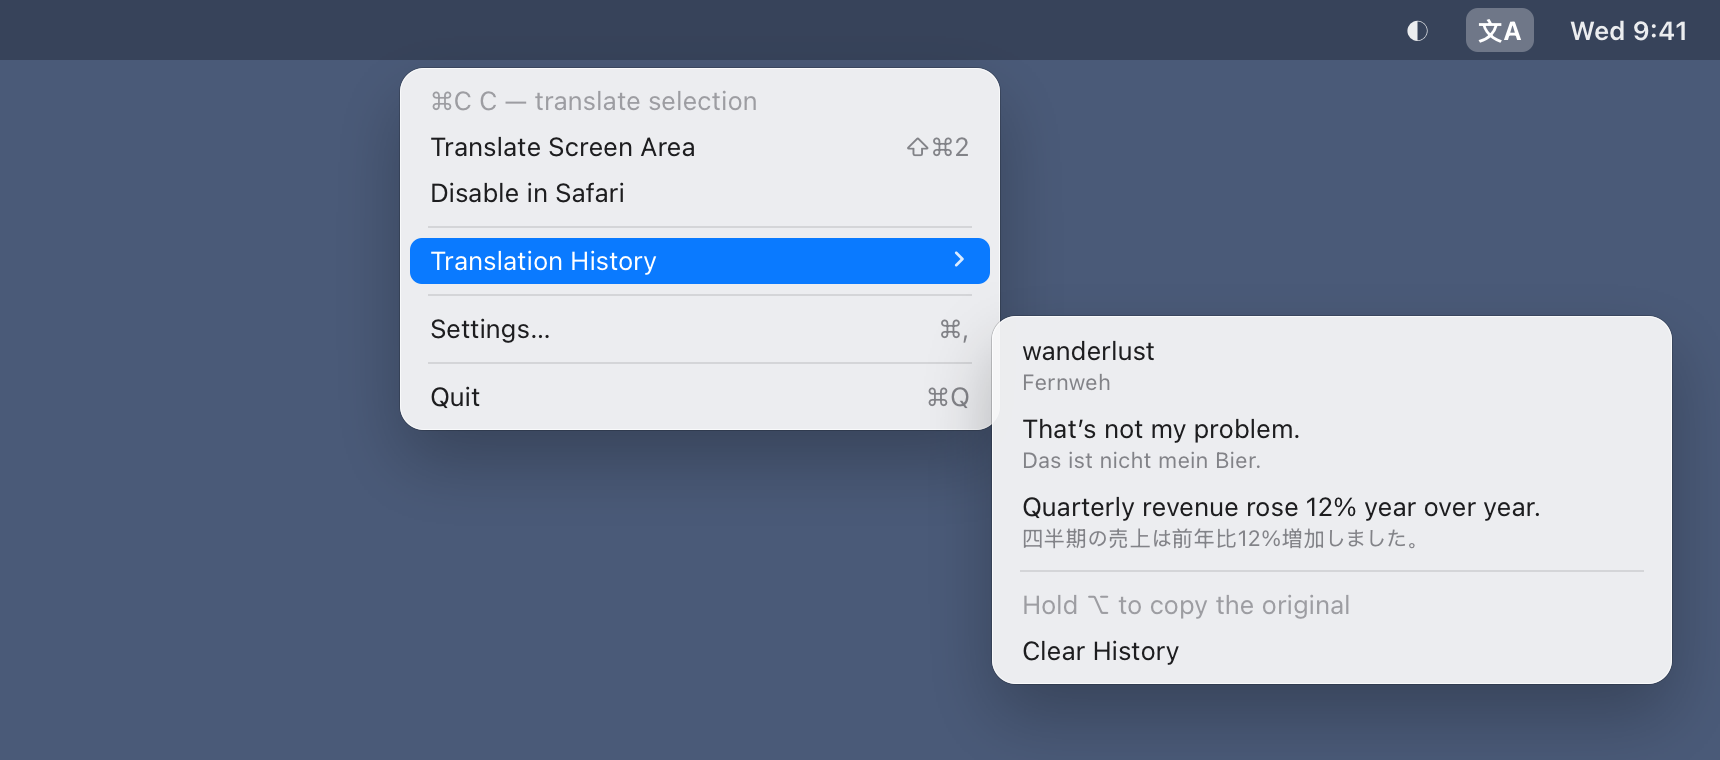
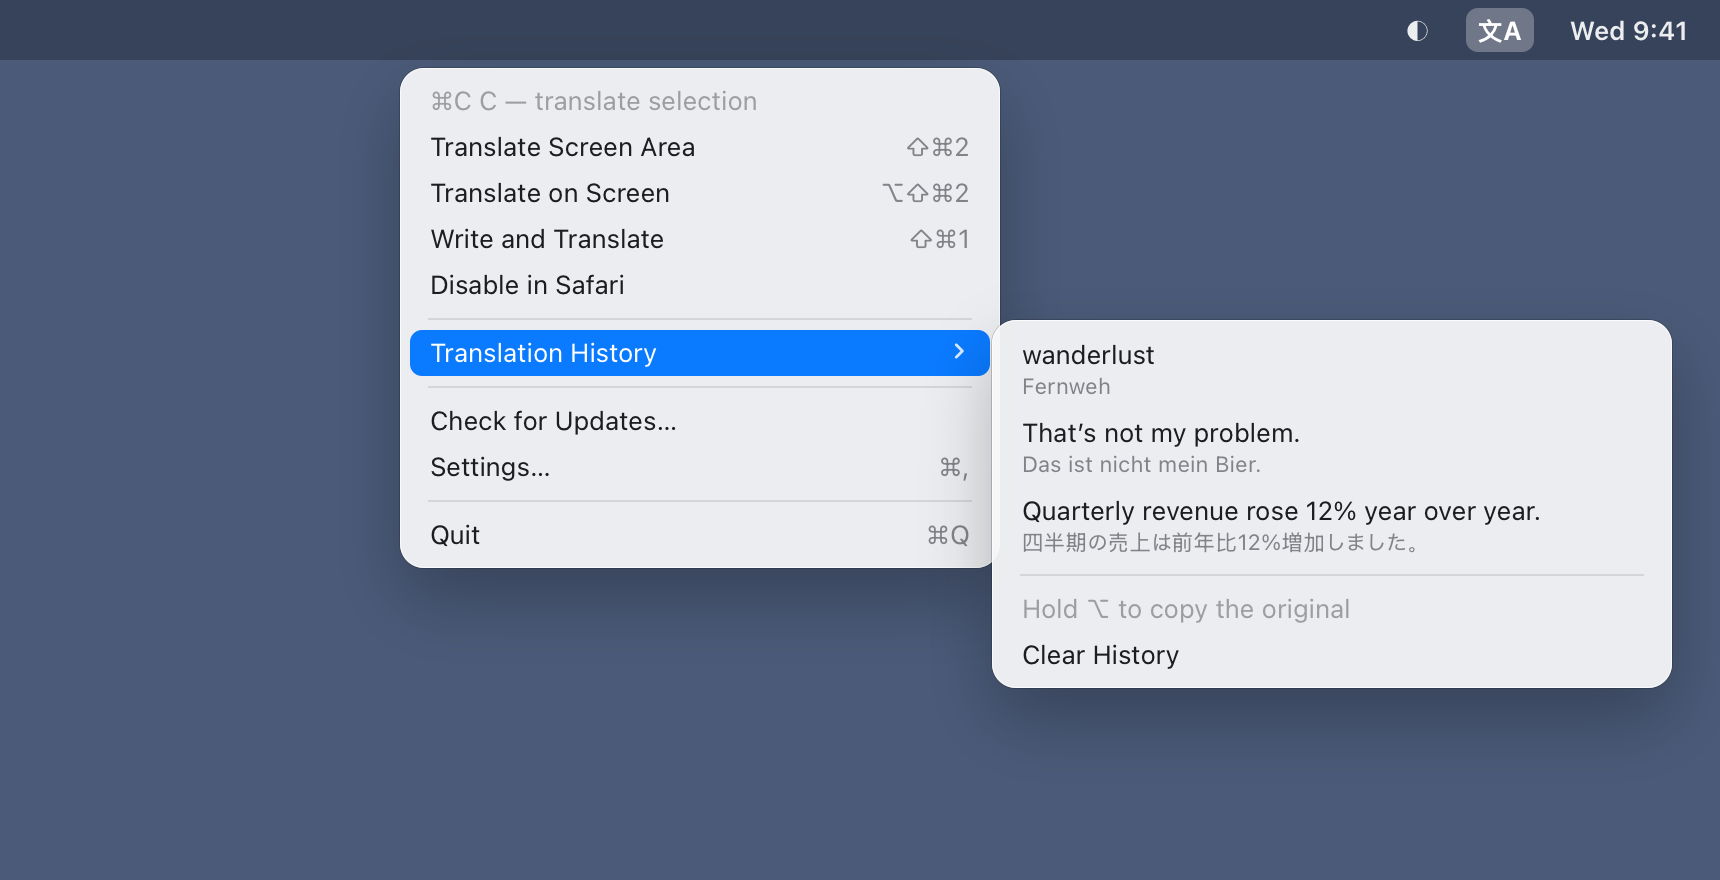
docs(readme): bring the README up to date
- Popup images show the pin next to the close button; the menu and the
  General tab show the new shortcuts, update checks and the AI tab
- New images for translation over the screen (a poster before and after)
  and for writing with translation in a chat
- Permissions now cover ⌥⇧⌘2 and Insert, Privacy mentions the daily
  update check, and How it works lists the updater and `--compose`

Changed region(s): [[0.0, 0.0, 1.0, 0.9079]]

diff --git a/README.md b/README.md
@@ -13,7 +13,7 @@
   <img src="docs/images/hero.png" alt="Slovo translating a selected German sentence into English, in a popup under the selection">
 </p>
 
-Translation runs on your Mac with Apple Translation: no account, no network, nothing leaves the device unless you ask an AI model to polish a translation.
+Translation runs on your Mac with Apple Translation: no account, no network, and your text never leaves the device unless you ask an AI model to polish a translation.
 
 ## Features
 
@@ -37,15 +37,23 @@ Translation runs on your Mac with Apple Translation: no account, no network, not
 </p>
 
 <p align="center">
+  <img src="docs/images/overlay.png" alt="A Japanese sale poster, and the same poster with each line's English translation drawn over the original in its colors">
+</p>
+
+<p align="center">
+  <img src="docs/images/writing.png" alt="A German chat with the writing popup open above the message field: English typed in, the German translation below it, ready to insert">
+</p>
+
+<p align="center">
   <img src="docs/images/dark.png" alt="Slovo in dark mode translating a French sentence, improved by Claude">
 </p>
 
 ## Menu bar and settings
 
-Slovo has no Dock icon. Everything else lives behind its menu bar icon: screen translation in a popup or over the screen, writing with translation, the per-app switch for the app you were just in, history and settings.
+Slovo has no Dock icon. Everything else lives behind its menu bar icon: screen translation in a popup or over the screen, writing with translation, the per-app switch for the app you were just in, history, update checks and settings.
 
 <p align="center">
-  <img src="docs/images/menu.png" width="645" alt="The menu bar menu with the translation history submenu open">
+  <img src="docs/images/menu.png" width="645" alt="The menu bar menu with its shortcuts and the translation history submenu open">
 </p>
 
 Settings are split into four tabs:
@@ -58,7 +66,7 @@ Settings are split into four tabs:
 | AI | The provider: Claude (API key and a model from your account's list) or an OpenAI-compatible API (address, optional key, and a model picked from the server's list or typed in). Keys are kept in the Keychain |
 
 <p align="center">
-  <img src="docs/images/settings.png" width="570" alt="The General tab of Slovo's settings with the two shortcuts and Open at Login">
+  <img src="docs/images/settings.png" width="570" alt="The General tab of Slovo's settings with four shortcuts, Open at Login and automatic update checks">
 </p>
 
 ## Keyboard
@@ -81,8 +89,8 @@ Settings are split into four tabs:
 
 - macOS 26 or later (Apple Translation, Liquid Glass, Vision document recognition)
 - Xcode 26 to build
-- Accessibility permission, for the selection shortcut and Replace
-- Screen Recording permission, only for ⇧⌘2; macOS asks the first time
+- Accessibility permission, for the selection shortcut, Replace and Insert
+- Screen Recording permission, only for ⇧⌘2 and ⌥⇧⌘2; macOS asks the first time
 
 ## Install
 
@@ -94,7 +102,7 @@ Slovo isn't signed with an Apple Developer ID yet, so the first launch is blocke
 xattr -dr com.apple.quarantine /Applications/Slovo.app
 ```
 
-Then allow Slovo in **Privacy & Security → Accessibility**, and later in **Screen Recording** when you first press ⇧⌘2. Without a Developer ID signature macOS sees every update as a new app, so after updating, switch Slovo off and on again in those two lists.
+Then allow Slovo in **Privacy & Security → Accessibility**, and later in **Screen Recording** when you first press ⇧⌘2 or ⌥⇧⌘2. Without a Developer ID signature macOS sees every update as a new app, so after updating, switch Slovo off and on again in those two lists.
 
 Slovo updates itself with [Sparkle](https://sparkle-project.org): it checks the latest GitHub release once a day (or from **Check for Updates…** in the menu), and installs a new version only if its signature matches the key built into the app.
 
@@ -116,11 +124,14 @@ To open the popup without a shortcut, for example while working on the UI:
 open build/Slovo.app --args --demo "Some text to translate"
 ```
 
+`--compose` instead of `--demo` opens the writing popup.
+
 ## Privacy
 
 - Translation, language detection, text recognition, the dictionary and speech all run on the device.
 - Text leaves the Mac only when you press the AI button, and goes only to the provider you configured. With a local Ollama or LM Studio it never leaves the Mac at all.
 - History and settings stay in Slovo's preferences on this Mac; Clear History in the menu wipes the history.
+- Update checks download the update feed from GitHub once a day; no text or usage data goes with them. They can be turned off in Settings → General.
 
 ## How it works
 
@@ -136,6 +147,7 @@ open build/Slovo.app --args --demo "Some text to translate"
 | `RegionPicker`, `ScreenOverlay` | A crosshair that reports the picked rectangle, a ScreenCaptureKit shot of it, Vision paragraphs with their bounds, and colors sampled around and inside each one for the patches drawn over the screen |
 | `ScreenTextCapture` | `screencapture -i` for the region, then Vision's `RecognizeDocumentsRequest` |
 | `DictionaryLookup`, `Speaker` | Dictionary.app entries and `AVSpeechSynthesizer` |
+| `Updater` | Sparkle's standard updater: the appcast of the latest GitHub release, EdDSA-signed downloads |
 | `AITranslator`, `ClaudeTranslator`, `OpenAICompatibleTranslator` | One prompt for every provider; Claude's Messages API with server-side fallback on refusals, or streamed chat completions plus the server's model list |
 
 ## License
